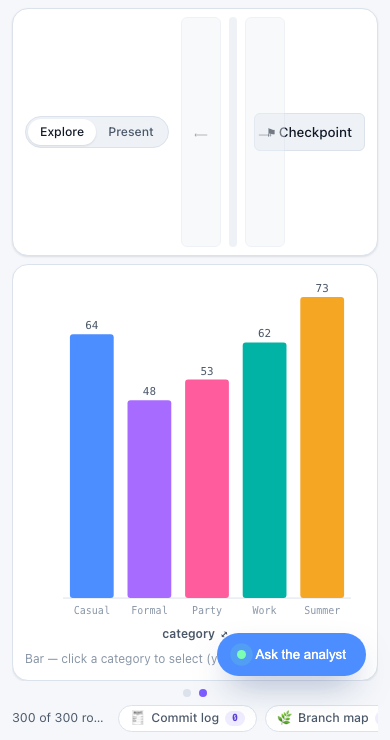
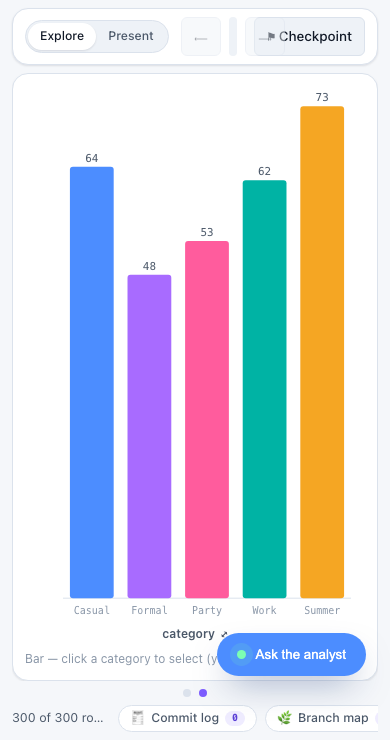
fix(ui): empty-state time strip stays one slim row at mobile widths
A fresh visitor (zero commits) at 390×740 saw a ~250px-tall top strip: the
compact bar squeezes the empty timeline track to a sliver (the mode toggle +
⚑ button eat most of the row), and .vzf-tl-empty — a flex item with default
min-width:auto and wrapping text — folded its long "no commits yet" hint
into a one-word-wide, ~226px-tall column that the row's align-items:stretch
propagated to the whole strip. The first commit "fixed" it only because dots
are fixed-size and overflow horizontally instead of wrapping.

Fix: .vzf-tl-empty becomes a shrinkable (flex:1 1 0; min-width:0) one-line
(white-space:nowrap) ellipsizing item — the empty state now renders the same
~57px slim row as the with-commits state at every width, with the hint
inline and truncated only when the track genuinely has no room. Desktop
empty state unchanged (full hint visible, no truncation).

New smoke assertion (demo-agent/smoke.test.ts, mobile describe): the empty
session's top strip height < 90px and the hint's own height < 40px (one
line), plus the zero-scroll invariant. mobile.png refreshed — it was the
one committed screenshot that had captured the bug.

diff --git a/demo-agent/smoke.test.ts b/demo-agent/smoke.test.ts
@@ -661,6 +661,20 @@ describe.skipIf(!existsSync(CHROME))('mobile viewport — scroll-snap chart caro
     await handle?.close();
   });
 
+  it('the EMPTY session (a fresh visitor) keeps the top strip one slim row — the "no commits yet" hint never wraps into a tall column', async () => {
+    // regression: .vzf-tl-empty used to wrap its long hint into a one-word-wide
+    // column inside the squeezed compact track, ballooning the (stretch-aligned)
+    // top strip to ~250px at 390px width until the first commit landed.
+    const m = await page.evaluate(() => {
+      const top = document.querySelector('[data-vzf="cockpit-top"]')!.getBoundingClientRect();
+      const empty = document.querySelector('.vzf-tl-empty')!.getBoundingClientRect();
+      return { topH: top.height, emptyH: empty.height };
+    });
+    expect(m.topH, 'empty-state top strip stays one slim row (was ~250px before the fix)').toBeLessThan(90);
+    expect(m.emptyH, 'the hint renders on ONE line (nowrap + ellipsis), never a wrapped column').toBeLessThan(40);
+    await expectNoPageOrShellScroll(page);
+  }, 30_000);
+
   it('renders a two-page dot carousel with zero page/shell scroll; tapping a dot swipes to that chart', async () => {
     await expectNoPageOrShellScroll(page);
     const strip = await page.evaluate(() => {

diff --git a/ui/src/styles.css b/ui/src/styles.css
@@ -855,6 +855,18 @@
   color: var(--vzf-ink-faint);
   font-size: 0.85em;
   padding: var(--vzf-space-2);
+  /* ONE LINE, always. As a flex item the hint's min-width is its content by
+     default, and its text may wrap — at narrow (mobile) widths the compact
+     bar squeezes the empty track to a sliver, and without these rules the
+     long hint wraps into a tall one-word-wide column that (via the row's
+     align-items: stretch) balloons the whole top strip to ~250px. Shrinkable
+     (min-width: 0) + nowrap + ellipsis keeps the empty state the same slim
+     single row as the with-commits state at every width. */
+  flex: 1 1 0;
+  min-width: 0;
+  white-space: nowrap;
+  overflow: hidden;
+  text-overflow: ellipsis;
 }
 :where(.vzf) .vzf-present-beat {
   text-align: center;
